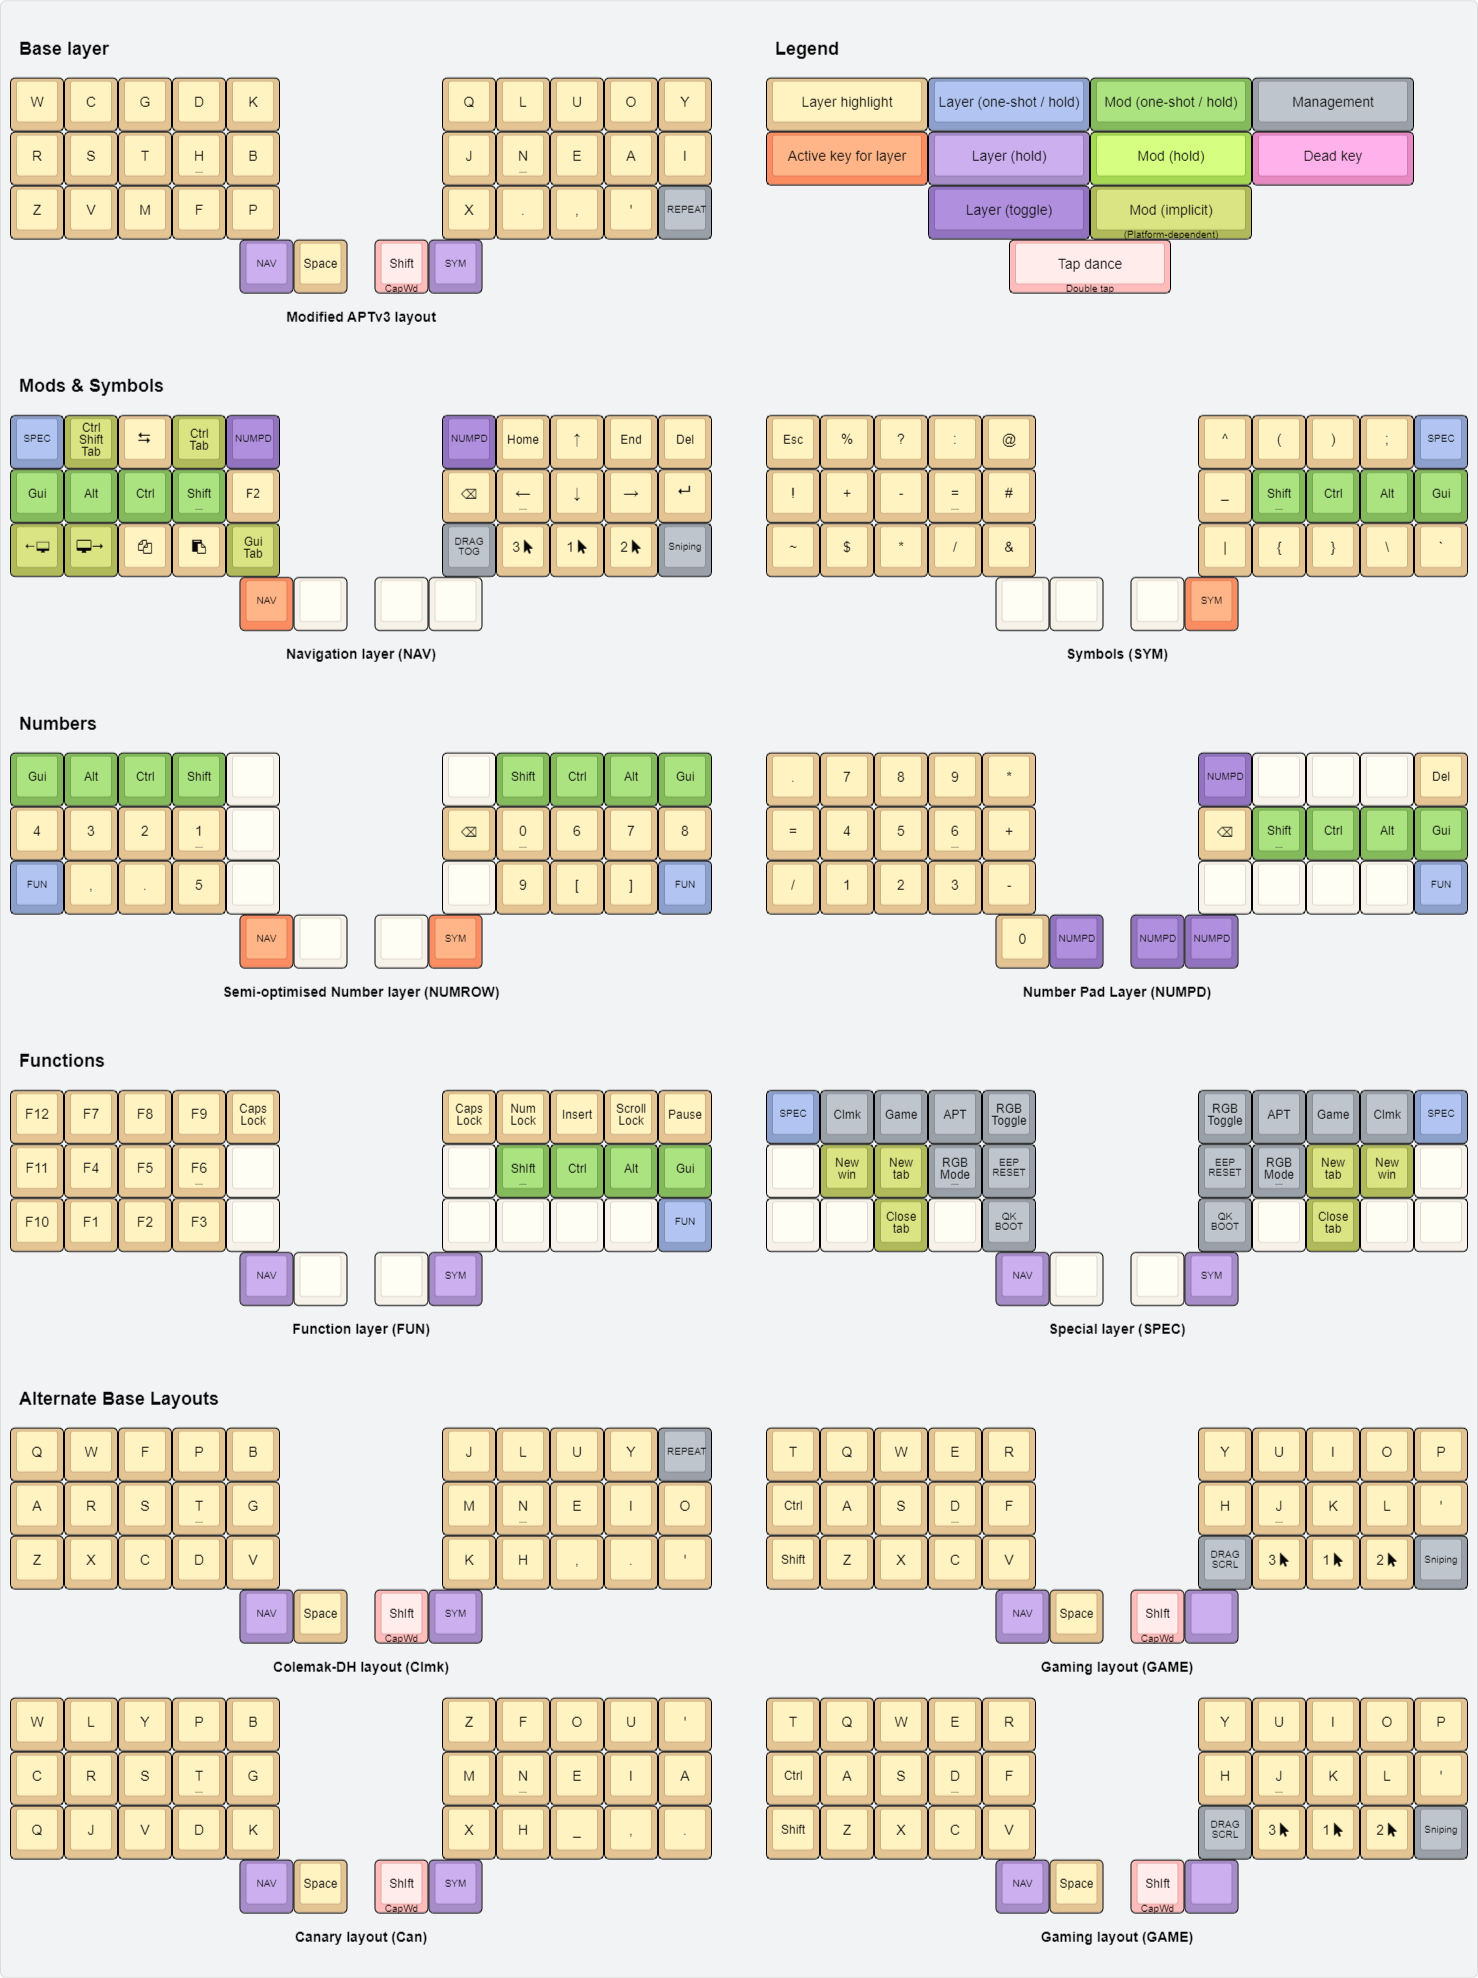
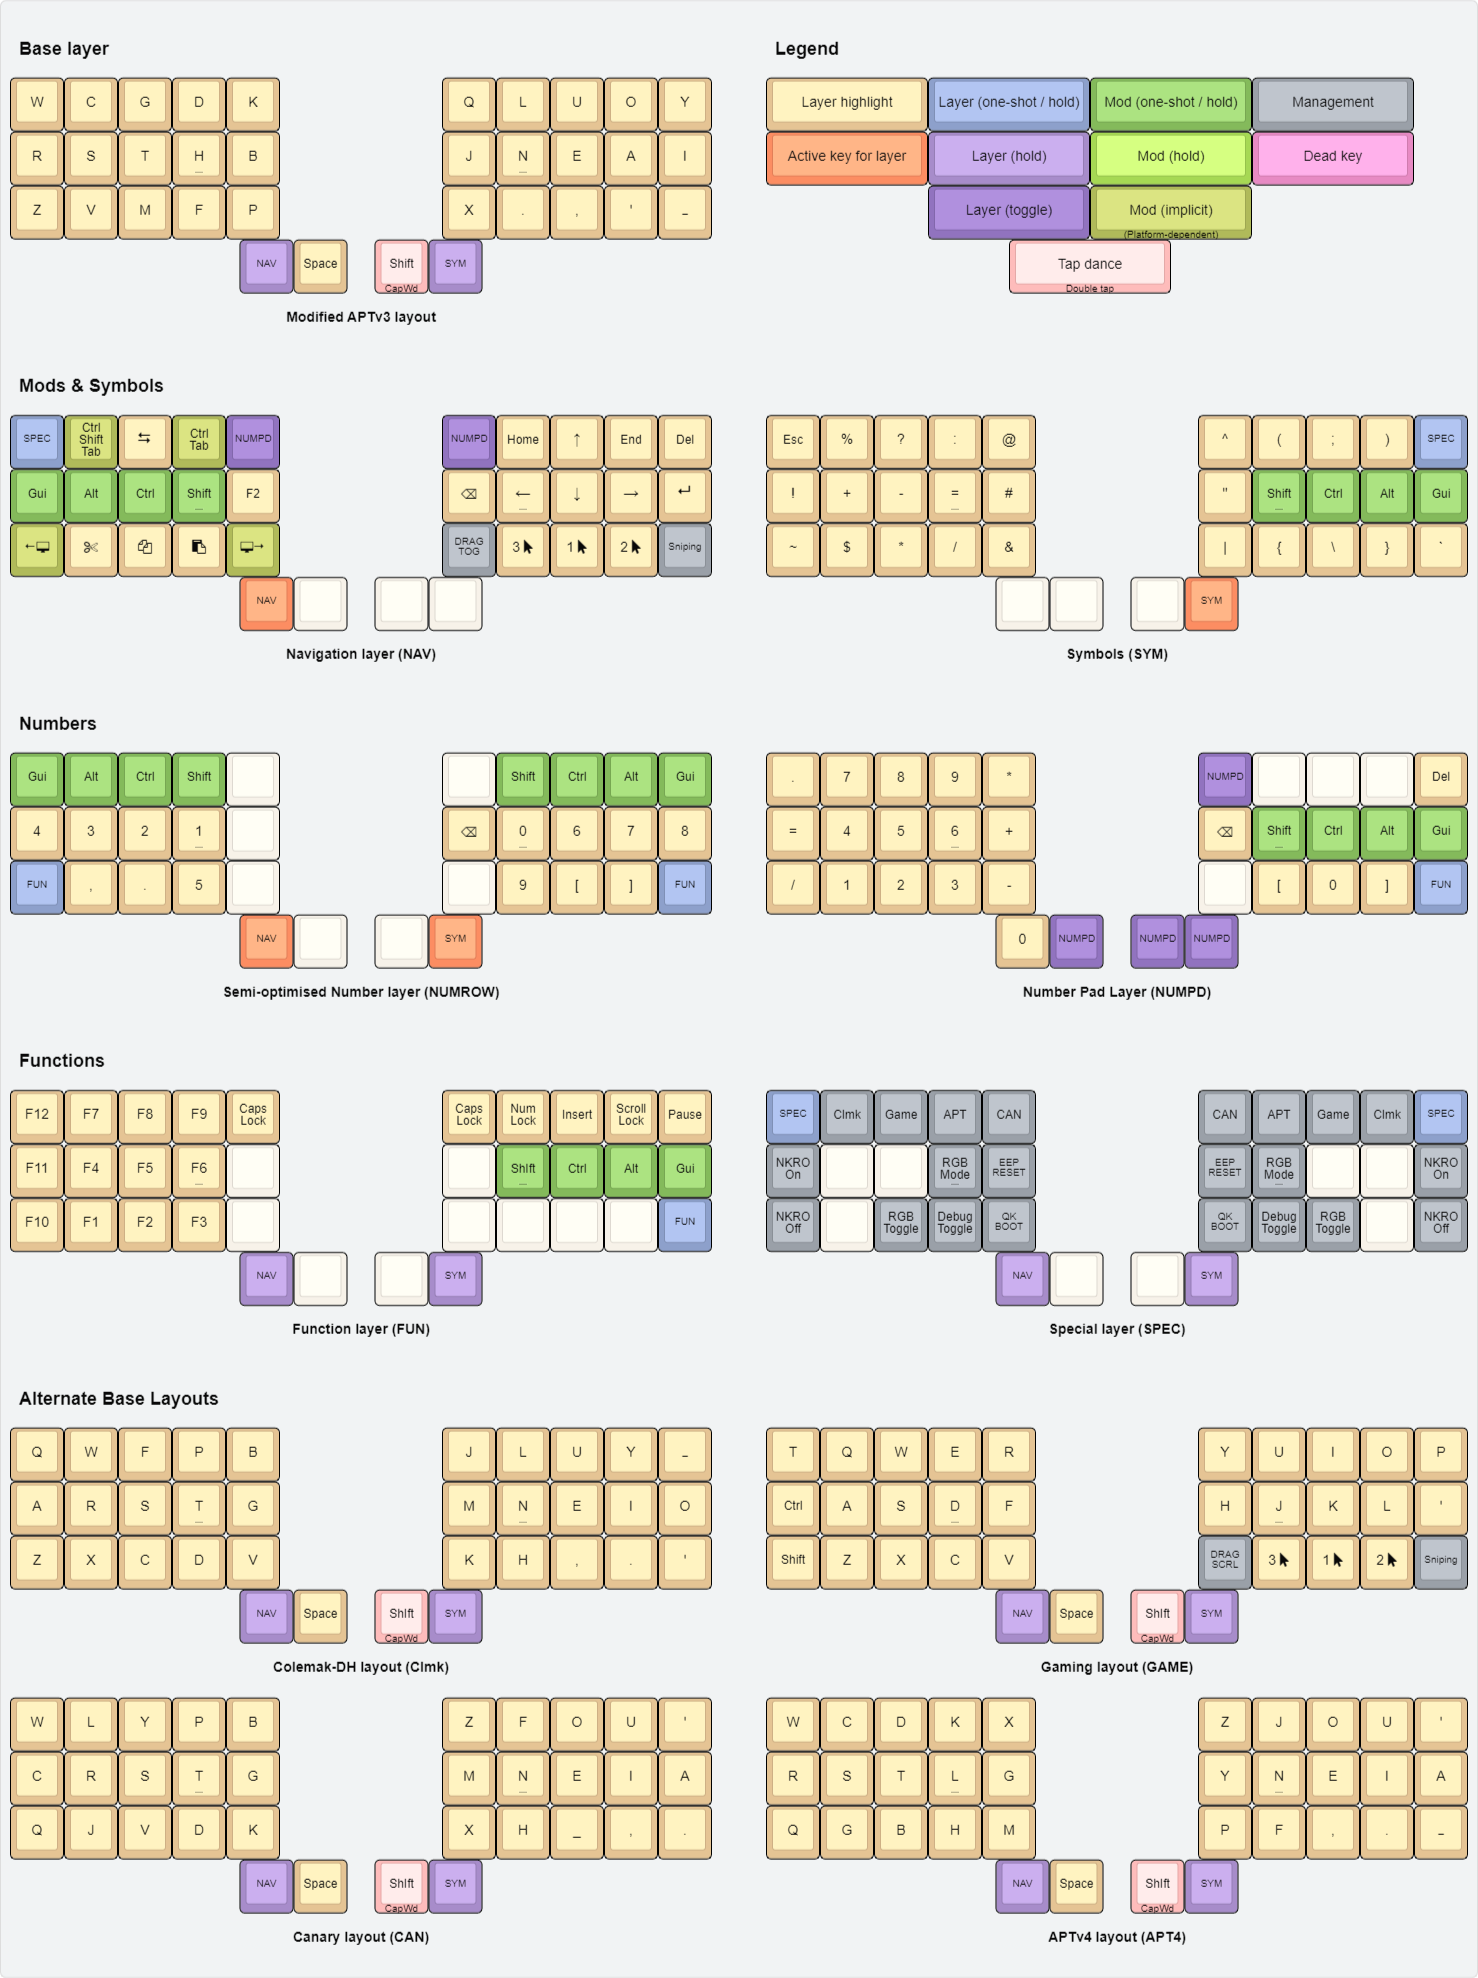
updated keymap, removed platform.c/h as those are unused

diff --git a/users/casuanoob/keymaps/split34.h b/users/casuanoob/keymaps/split34.h
@@ -40,27 +40,27 @@ void          shutdown_keymap(void);
 
 enum layers_keymap {
     _BASE = 0,
-    _APT,   // APTmod layer.
+    _APTm,  // APTmod layer.
+    _APT4,  // APTv4 layer.
     _CAN,   // Canary layer.
     _GAME,  // Gaming layer.
     _NAV,  // Navigation.
     _SYM,  // Symbols.
-    _WNAV, // Workspace navigation.
     _NUM,  // Numrow.
-    _NUMPD,// Numpad.
-    _FUN, // Function key layer
-    _SPEC, // Specials.
+    _NUMPD,  // Numpad.
+    _FUN,  // Function key layer
+    _SPEC,  // Specials.
 };
 
 // Layers.
 #define NAV MO(_NAV)
 #define SYM MO(_SYM)
-#define WNAV TG(_WNAV)
 #define NUMPD TG(_NUMPD)
 #define FUN OSL(_FUN)
 #define SPECIAL OSL(_SPEC)
 #define GAME DF(_GAME)
-#define APT DF(_APT)
+#define APTm DF(_APTm)
+#define APT4 DF(_APT4)
 #define CAN DF(_CAN)
 #define BASE DF(_BASE)
 
@@ -119,6 +119,21 @@ enum layers_keymap {
 // clang-format on
 
 /** 
+ * \brief APTv3 modified layout.
+ * 
+ * Slightly modified APTv3, ZX switch, GDF rotated
+ * Also prevent quote `'`, comma `,` and dot `.` from shifting 
+ * (plays well with oneshot shift).
+ */
+// clang-format off
+#define APTv4_split_3x5_2                                                                      \
+       KC_W,    KC_C,    KC_G,    KC_D,    KC_K,    KC_Q,    KC_L,    KC_U,    KC_O,    KC_Y, \
+       KC_R,    KC_S,    KC_T,    KC_H,    KC_B,    KC_J,    KC_N,    KC_E,    KC_A,    KC_I, \
+       KC_Z,    KC_V,    KC_M,    KC_F,    KC_P,    KC_X,  NS_DOT, NS_COMM, NS_QUOT, KC_UNDS, \
+                                   NAV,  KC_SPC,  TD_SFT,    SYM
+// clang-format on
+
+/** 
  * \brief Canary layout.
  * 
  * Canary Ortho version layout by AKL
@@ -154,7 +169,7 @@ enum layers_keymap {
 #define NAV_split_3x5_2                                                                       \
     SPECIAL, RCS_TAB,  KC_TAB, CTL_TAB,   NUMPD,   NUMPD, KC_HOME,   NS_UP,  KC_END,  KC_DEL, \
     OS_LGUI, OS_LALT, OS_LCTL, OS_LSFT,   KC_F2, KC_BSPC, NS_LEFT, NS_DOWN, NS_RGHT,  KC_ENT, \
-    WS_PREV, WS_NEXT, SC_COPY, SC_PSTE, LAUNCHR, DRG_TOG, KC_BTN3, KC_BTN1, KC_BTN2, SNIPING, \
+    WS_PREV,  SC_CUT, SC_COPY, SC_PSTE, WS_NEXT, DRG_TOG, KC_BTN3, KC_BTN1, KC_BTN2, SNIPING, \
                                _______, _______, _______, _______
 // clang-format on
 
@@ -163,9 +178,9 @@ enum layers_keymap {
  */
 // clang-format off
 #define SYM_split_3x5_2                                                                       \
-     KC_ESC, KC_PERC, KC_QUES, KC_COLN,   KC_AT, KC_CIRC, KC_LPRN, KC_RPRN, NS_SCLN, SPECIAL, \
+     KC_ESC, KC_PERC, KC_QUES, KC_COLN,   KC_AT, KC_CIRC, KC_LPRN, NS_SCLN, KC_RPRN, SPECIAL, \
     KC_EXLM, KC_PLUS, NS_MINS,  KC_EQL, KC_HASH, KC_DQUO, OS_LSFT, OS_LCTL, OS_LALT, OS_LGUI, \
-    KC_TILD,  KC_DLR, KC_ASTR, NS_SLSH, KC_AMPR, KC_PIPE, KC_LCBR, KC_RCBR, NS_BSLS,  NS_GRV, \
+    KC_TILD,  KC_DLR, KC_ASTR, NS_SLSH, KC_AMPR, KC_PIPE, KC_LCBR, NS_BSLS, KC_RCBR,  NS_GRV, \
                                _______, _______, _______, _______
 // clang-format on
 
@@ -189,22 +204,8 @@ enum layers_keymap {
 #define NUMPAD_split_3x5_2                                                                       \
      NS_DOT,    NS_7,    NS_8,    NS_9, KC_ASTR,   NUMPD, ___x___, ___x___, ___x___,  KC_DEL, \
      KC_EQL,    NS_4,    NS_5,    NS_6, KC_PLUS, KC_BSPC, OS_LSFT, OS_LCTL, OS_LALT, OS_LGUI, \
-    NS_SLSH,    NS_1,    NS_2,    NS_3, NS_MINS, ___x___, ___x___, ___x___, ___x___,     FUN, \
+    NS_SLSH,    NS_1,    NS_2,    NS_3, NS_MINS, ___x___, NS_LBRC,    NS_0, NS_RBRC,     FUN, \
                                   NS_0,   NUMPD,   NUMPD,   NUMPD
-// clang-format on
-
-/**
- * \brief Workspace navigation layers.
- *
- * Contains platform-dependent shortcuts for moving between virtual workspaces
- * and interacting with tiling window managers.
- */
-// clang-format off
-#define WNAV_split_3x5_2                                                                      \
-    ___x___,  WS_MOD, WS_MPCD, WS_MPCI,    WNAV,    WNAV, WS_MPCI, WS_MPCD,  WS_MOD, ___x___, \
-    ___x___, WS_MPPR, WS_MPEX, WS_MPSH, ___x___, ___x___, WS_MPSH, WS_MPEX, WS_MPPR, ___x___, \
-    ___x___, ___x___, WS_FNXT, WS_FPRV, ___x___, ___x___, WS_FPRV, WS_FNXT, ___x___, ___x___, \
-                               _______, KC_LSFT, KC_LSFT, _______
 // clang-format on
 
 /**
@@ -223,8 +224,8 @@ enum layers_keymap {
  */
 // clang-format off
 #define SPEC_split_3x5_2                                                                      \
-    SPECIAL,   BASE,    GAME,      APT,     CAN,     CAN,     APT,    GAME,    BASE, SPECIAL, \
-      NK_ON, ___x___, ___x___, RGB_MOD, EEP_RST, EEP_RST, RGB_MOD, ___x___, ___x___,   NK_ON, \
+    SPECIAL,   BASE,    GAME,     APTm,     CAN,     CAN,    APTm,    GAME,    BASE, SPECIAL, \
+      NK_ON, ___x___,    APT4, RGB_MOD, EEP_RST, EEP_RST, RGB_MOD,    APT4, ___x___,   NK_ON, \
      NK_OFF, ___x___, RGB_TOG, DB_TOGG, QK_BOOT, QK_BOOT, DB_TOGG, RGB_TOG, ___x___,  NK_OFF, \
                                _______, ___x___, ___x___, _______
 // clang-format on
@@ -252,10 +253,10 @@ enum layers_keymap {
 #define NAV_split_3x5_3 LAYOUT_split_3x5_2_to_split_3x5_3(NAV_split_3x5_2)
 #define SYM_split_3x5_3 LAYOUT_split_3x5_2_to_split_3x5_3(SYM_split_3x5_2)
 #define NUMROW_split_3x5_3 LAYOUT_split_3x5_2_to_split_3x5_3(NUMROW_split_3x5_2)
-#define WNAV_split_3x5_3 LAYOUT_split_3x5_2_to_split_3x5_3(WNAV_split_3x5_2)
 #define SPEC_split_3x5_3 LAYOUT_split_3x5_2_to_split_3x5_3(SPEC_split_3x5_2)
 #define COLEMAKdhm_split_3x5_3 LAYOUT_split_3x5_2_to_split_3x5_3(COLEMAKdhm_split_3x5_2)
 #define APTmod_split_3x5_3 LAYOUT_split_3x5_2_to_split_3x5_3(APTmod_split_3x5_2)
+#define APTv4_split_3x5_3 LAYOUT_split_3x5_2_to_split_3x5_3(APTv4_split_3x5_2)
 #define Canary_split_3x5_3 LAYOUT_split_3x5_2_to_split_3x5_3(Canary_split_3x5_2)
 #define GAMING_split_3x5_3 LAYOUT_split_3x5_2_to_split_3x5_3(GAMING_split_3x5_2)
 #define NUMPAD_split_3x5_3 LAYOUT_split_3x5_2_to_split_3x5_3(NUMPAD_split_3x5_2)
@@ -284,10 +285,10 @@ enum layers_keymap {
 #define NAV_cnano_3x5_3 LAYOUT_split_3x5_2_to_charybdis_3x5_3(NAV_split_3x5_2)
 #define SYM_cnano_3x5_3 LAYOUT_split_3x5_2_to_charybdis_3x5_3(SYM_split_3x5_2)
 #define NUMROW_cnano_3x5_3 LAYOUT_split_3x5_2_to_charybdis_3x5_3(NUMROW_split_3x5_2)
-#define WNAV_cnano_3x5_3 LAYOUT_split_3x5_2_to_charybdis_3x5_3(WNAV_split_3x5_2)
 #define SPEC_cnano_3x5_3 LAYOUT_split_3x5_2_to_charybdis_3x5_3(SPEC_split_3x5_2)
 #define COLEMAKdhm_cnano_3x5_3 LAYOUT_split_3x5_2_to_charybdis_3x5_3(COLEMAKdhm_split_3x5_2)
 #define APTmod_cnano_3x5_3 LAYOUT_split_3x5_2_to_charybdis_3x5_3(APTmod_split_3x5_2)
+#define APTv4_cnano_3x5_3 LAYOUT_split_3x5_2_to_charybdis_3x5_3(APTv4_split_3x5_2)
 #define Canary_cnano_3x5_3 LAYOUT_split_3x5_2_to_charybdis_3x5_3(Canary_split_3x5_2)
 #define GAMING_cnano_3x5_3 LAYOUT_split_3x5_2_to_charybdis_3x5_3(GAMING_split_3x5_2)
 #define NUMPAD_cnano_3x5_3 LAYOUT_split_3x5_2_to_charybdis_3x5_3(NUMPAD_split_3x5_2)

diff --git a/keyboards/bastardkb/charybdis/3x5/keymaps/casuanoob-left-encoder/keymap.c b/keyboards/bastardkb/charybdis/3x5/keymaps/casuanoob-left-encoder/keymap.c
@@ -24,13 +24,13 @@
 const uint16_t PROGMEM keymaps[][MATRIX_ROWS][MATRIX_COLS] = {
   [_BASE] = LAYOUT_charybdis_3x5_delay(COLEMAKdhm_split_3x5_3),
   [_GAME] = LAYOUT_charybdis_3x5_delay(GAMING_split_3x5_3),
-  [_APT] = LAYOUT_charybdis_3x5_delay(APTmod_split_3x5_3),
+  [_APTm] = LAYOUT_charybdis_3x5_delay(APTmod_split_3x5_3),
+  [_APT4] = LAYOUT_charybdis_3x5_delay(APTv4_split_3x5_3),
   [_CAN] = LAYOUT_charybdis_3x5_delay(Canary_split_3x5_3),
   [_NAV] = LAYOUT_charybdis_3x5_delay(NAV_split_3x5_3),
   [_SYM] = LAYOUT_charybdis_3x5_delay(SYM_split_3x5_3),
   [_NUM] = LAYOUT_charybdis_3x5_delay(NUMROW_split_3x5_3),
   [_NUMPD] = LAYOUT_charybdis_3x5_delay(NUMPAD_split_3x5_3),
-  //[_WNAV] = LAYOUT_charybdis_3x5_delay(WNAV_split_3x5_3),
   [_FUN] = LAYOUT_charybdis_3x5_delay(FUN_split_3x5_3),
   [_SPEC] = LAYOUT_charybdis_3x5_delay(SPEC_split_3x5_3),
 };

diff --git a/users/casuanoob/keymaps/split34.c b/users/casuanoob/keymaps/split34.c
@@ -137,7 +137,11 @@ layer_state_t layer_state_set_user_keymap(layer_state_t state) {
         rgb_matrix_mode_noeeprom(RGB_MATRIX_NONE);
         rgb_matrix_sethsv_noeeprom(HSV_TEAL);
         break;
-      case _APT:
+      case _APTm:
+        rgb_matrix_mode_noeeprom(RGB_MATRIX_NONE);
+        rgb_matrix_sethsv_noeeprom(HSV_AZURE);
+        break;
+      case _APT4:
         rgb_matrix_mode_noeeprom(RGB_MATRIX_NONE);
         rgb_matrix_sethsv_noeeprom(HSV_AZURE);
         break;

diff --git a/users/casuanoob/delay.h b/users/casuanoob/delay.h
@@ -66,17 +66,6 @@ enum keycodes_user {
   OS_LCTL,
   OS_LGUI,
   OS_LSFT,
-  // Workspace navigation.
-  WS_CYCLE_MODE,
-  WS_FOCUS_PREVIOUS,
-  WS_FOCUS_NEXT,
-  WS_GOTO_PREVIOUS,
-  WS_GOTO_NEXT,
-  WS_MAIN_PANE_COUNT_DECREASE,
-  WS_MAIN_PANE_COUNT_INCREASE,
-  WS_MAIN_PANE_EXPAND,
-  WS_MAIN_PANE_SHRINK,
-  WS_MAIN_PANE_PROMOTE,
   SAFE_RANGE_KEYMAP,
 };
 

diff --git a/users/casuanoob/delay.c b/users/casuanoob/delay.c
@@ -17,7 +17,6 @@
 
 #include "config.h"
 #include "delay.h"
-#include "platform.h"
 #include "quantum.h"
 
 #ifdef RGB_MATRIX_ENABLE
